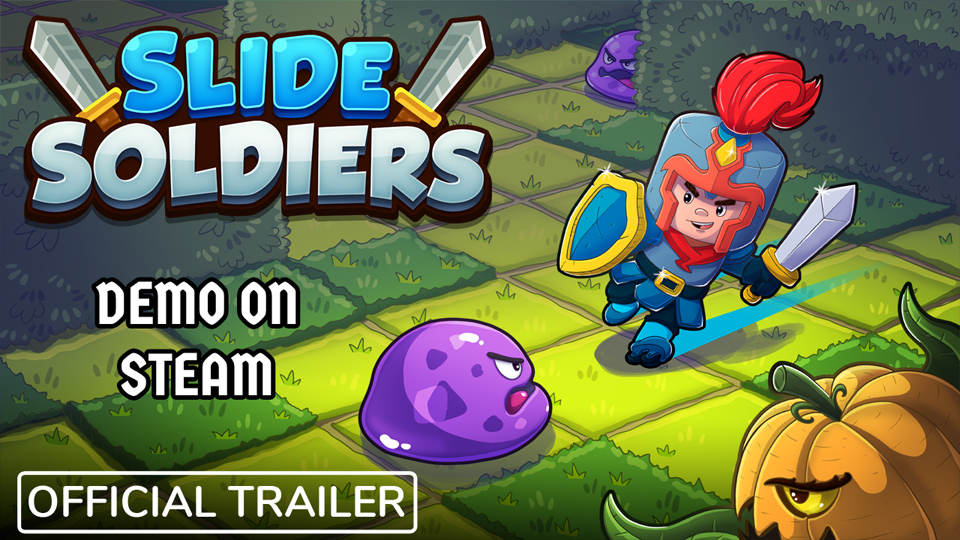
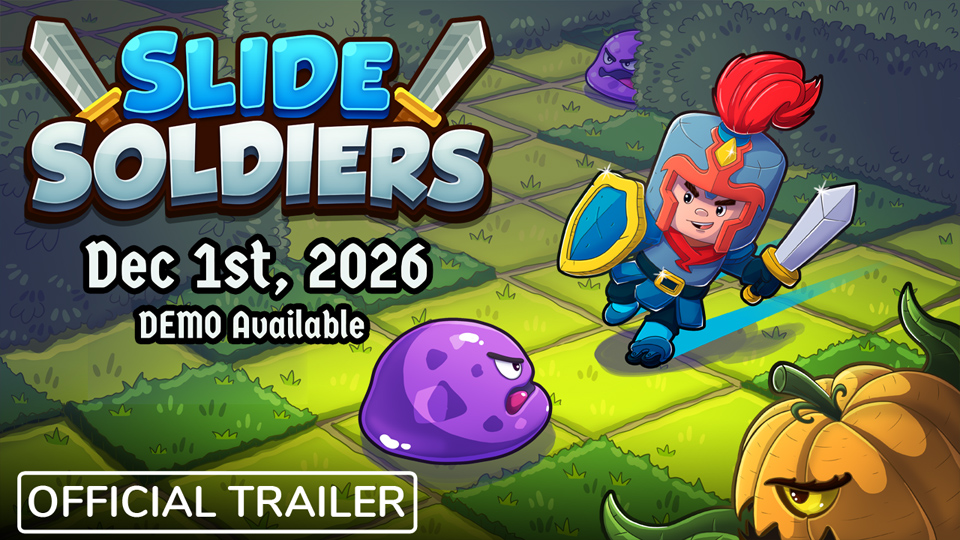
release date trailer

Changed region(s): [[0.0625, 0.4148, 0.4688, 0.7407]]

diff --git a/_includes/slide-soldiers/ss-link-official-trailer-EMBED.html b/_includes/slide-soldiers/ss-link-official-trailer-EMBED.html
@@ -1,1 +1,1 @@
-https://www.youtube.com/embed/FtZov3rPAxw?si=CQOfUDXEDzGvpTxm
+https://www.youtube.com/embed/Xv95S1odtSw?si=gJlVTPXopOfFHX1o

diff --git a/_includes/slide-soldiers/ss-link-official-trailer.html b/_includes/slide-soldiers/ss-link-official-trailer.html
@@ -1,1 +1,1 @@
-https://www.youtube.com/watch?v=FtZov3rPAxw
+https://youtu.be/Xv95S1odtSw
